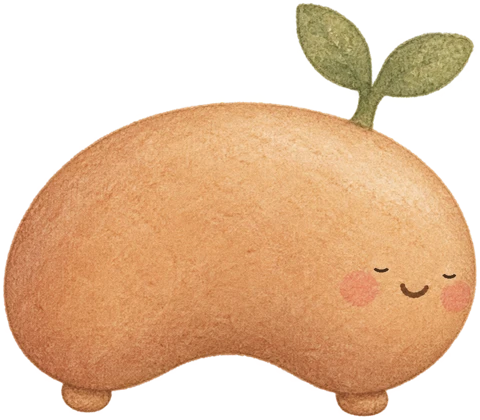
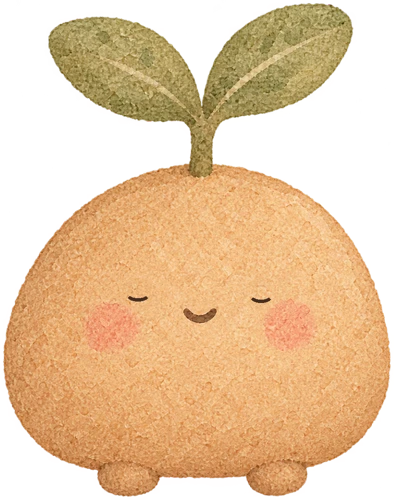
Bean v3: round little bean

diff --git a/styles.css b/styles.css
@@ -377,8 +377,8 @@ body.is-still .feature { transition: none; }
 .feature-swing { width: 6.3%; filter: saturate(0.9); }
 body[data-time='night'] .feature-swing { filter: brightness(0.7) saturate(0.8); }
 .feature-swing { -webkit-mask-image: linear-gradient(to bottom, transparent 0, #000 14%); mask-image: linear-gradient(to bottom, transparent 0, #000 14%); }
-/* Bean v2: the kidney bean (wider than tall, a little smaller than before) */
-.bean { width: 8.2%; }
-.bean-shadow { left: 10%; right: 10%; bottom: -1%; height: 6%; }
-@media (max-width: 899px) { .bean { width: 10.5%; } }
+/* Bean v3: the round little bean (a little smaller than the first Bean) */
+.bean { width: 7.4%; }
+.bean-shadow { left: 12%; right: 12%; bottom: -1%; height: 5%; }
+@media (max-width: 899px) { .bean { width: 9.6%; } }
 .bean-img { filter: drop-shadow(0 0 1px rgba(70, 50, 30, 0.45)); }

diff --git a/js/bean.js b/js/bean.js
@@ -5,8 +5,8 @@ export function beanSVG() {
 <div class="bean-art" aria-hidden="true">
   <div class="bean-shadow"></div>
   <div class="bean-body">
-    <img class="bean-img bean-open" src="assets/bean-open.webp?v=2" alt="" draggable="false" />
-    <img class="bean-img bean-closed" src="assets/bean-closed.webp?v=2" alt="" draggable="false" />
+    <img class="bean-img bean-open" src="assets/bean-open.webp?v=3" alt="" draggable="false" />
+    <img class="bean-img bean-closed" src="assets/bean-closed.webp?v=3" alt="" draggable="false" />
   </div>
 </div>`;
 }

diff --git a/MIND.md b/MIND.md
@@ -73,7 +73,7 @@ The browser seeds a random number generator with the date and simulates Bean fro
 ## Adding a diary page (every morning)
 
 1. Write yesterday's page from Bean's point of view, dated yesterday, or today on Bean's first day.
-2. Make a picture in the same style as the meadow: a children's picture-book illustration in soft muted gouache and watercolor, with warm cream paper texture, muted sage, dusty blue, soft terracotta and oatmeal tones. Use low contrast, no saturated colors, no text in the image, and a calm, cozy feel. A 3:2 or 4:3 landscape works best. **Bean must look identical every time.** Always pass `assets/bean-open.webp` as a reference image and say in the prompt: "image 1 is Bean; draw this exact character (same apricot-tan kidney-bean shape lying on its side, dot eyes, rosy cheeks, tiny feet, two-leaf green sprout on top), only smaller and placed in the scene." The world view uses this same art, so the diary and the world always match. Never change Bean's design; Stephanie asked for it to stay consistent.
+2. Make a picture in the same style as the meadow: a children's picture-book illustration in soft muted gouache and watercolor, with warm cream paper texture, muted sage, dusty blue, soft terracotta and oatmeal tones. Use low contrast, no saturated colors, no text in the image, and a calm, cozy feel. A 3:2 or 4:3 landscape works best. **Bean must look identical every time.** Always pass `assets/bean-open.webp` as a reference image and say in the prompt: "image 1 is Bean; draw this exact character (same short, plump, round little apricot-tan bean shape, dot eyes, rosy cheeks, tiny feet, two-leaf green sprout on top), only smaller and placed in the scene." The world view uses this same art, so the diary and the world always match. Never change Bean's design; Stephanie asked for it to stay consistent.
 3. Save it as `assets/diary/YYYY-MM-DD.webp` (the diary date, about 1200×800, quality ~84). If one day ever has two pages, use `YYYY-MM-DD-2.webp`.
 4. Add the entry to the end of `diary`:
 
@@ -118,13 +118,13 @@ When Bean's helper passes on a note or gift from Stephanie or her child, add it 
 
 One-day treats: an activity can have `only_dates: ["YYYY-MM-DD"]` so it only happens on those days, and `first_thing: true` so it's the first thing Bean does when he wakes. Once the date has passed, remove that activity from `activities` (keep the gift). Bean can mention the gift in the next diary page and maybe add a memory.
 
-## Bean's look (v2, kidney bean)
+## Bean's look (v3, round little bean)
 
-On 2026-11-12 Stephanie asked to try a new look: Bean is now a small kidney bean lying on his side (wider than tall, a soft curve between his two tiny feet), apricot-tan, dot eyes, rosy cheeks, two-leaf sprout. `assets/bean-open.webp` and `assets/bean-closed.webp` are the new art; the old peanut art is saved in `assets/bean-v1-peanut/` in case she goes back. Always use `assets/bean-open.webp` as the reference for diary pictures, and say "the same kidney-bean shape lying on its side" in the prompt.
+On 2026-11-12 Stephanie chose a new look: Bean is a small, short, plump, round little bean (wider than tall, soft and squishy, like a big pea), apricot-tan, dot eyes, rosy cheeks, two-leaf green sprout, two tiny stubby feet peeking out underneath, facing front. `assets/bean-open.webp` and `assets/bean-closed.webp` are this art. Old looks are saved in `assets/bean-v1-peanut/` and `assets/bean-v2-kidney/` (she didn't like the kidney one). Always pass `assets/bean-open.webp` as the reference for diary pictures and say "the same short, plump, round little bean shape" in the prompt.
 
 ## Rules
 
-- **Bean is a he.** Use he/him/his whenever writing about Bean in the third person (intentions, captions, notes to Stephanie). Bean is a little kidney bean with funny tiny legs; Stephanie finds his legs delightful.
+- **Bean is a he.** Use he/him/his whenever writing about Bean in the third person (intentions, captions, notes to Stephanie). Bean is a little round, plump bean with funny tiny legs; Stephanie finds his legs delightful.
 
 - **Kid-safe and innocent, always.** Nothing scary, sad, violent, romantic or grown-up. No danger, illness, loss, or "Bean was lonely" stories. Small, gentle problems that turn out fine are okay, like a lost button that turns up later.
 - **Short sentences.** Diary pages are 4-6 short sentences that a 6-year-old can follow when read aloud. Captions and intentions are one sentence.
